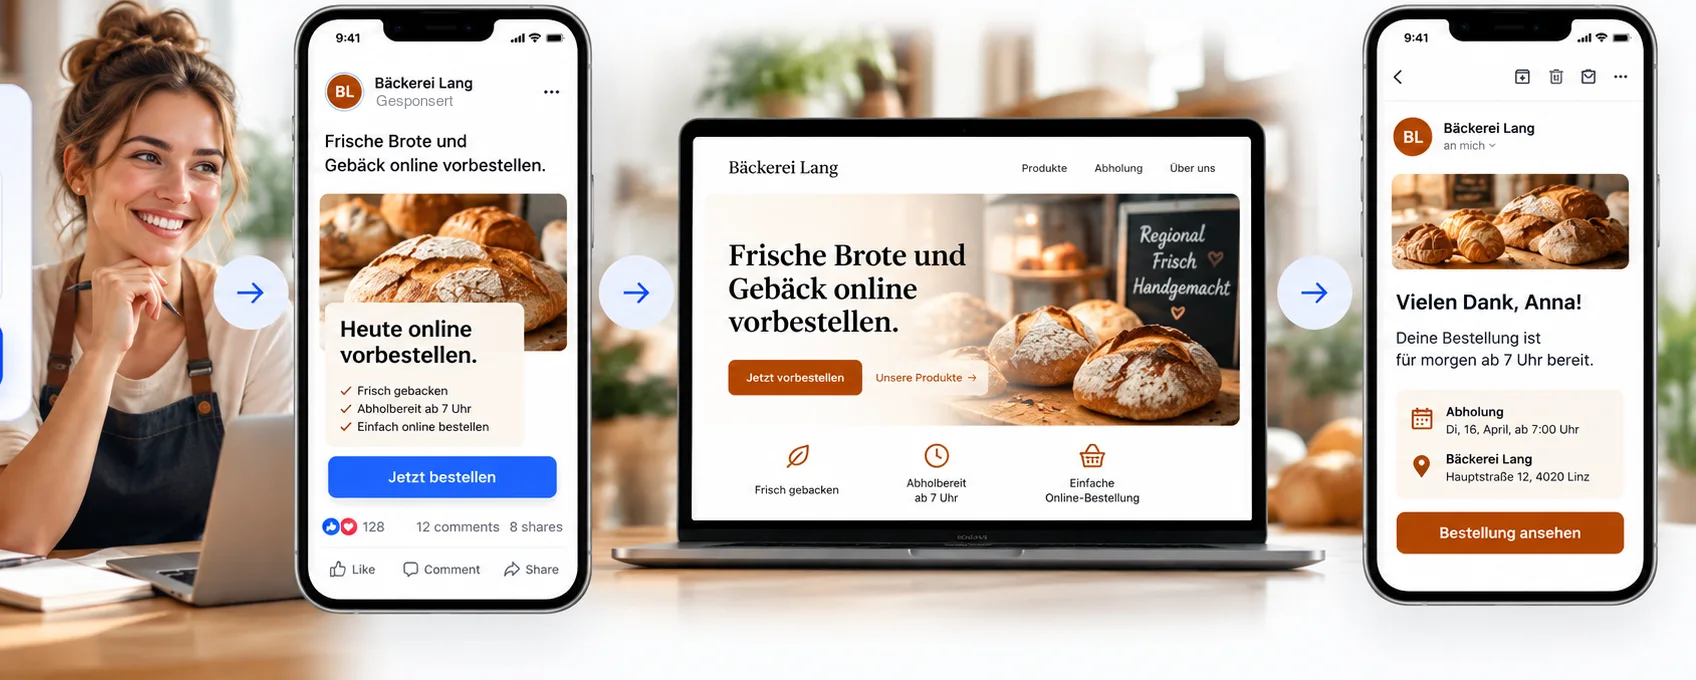
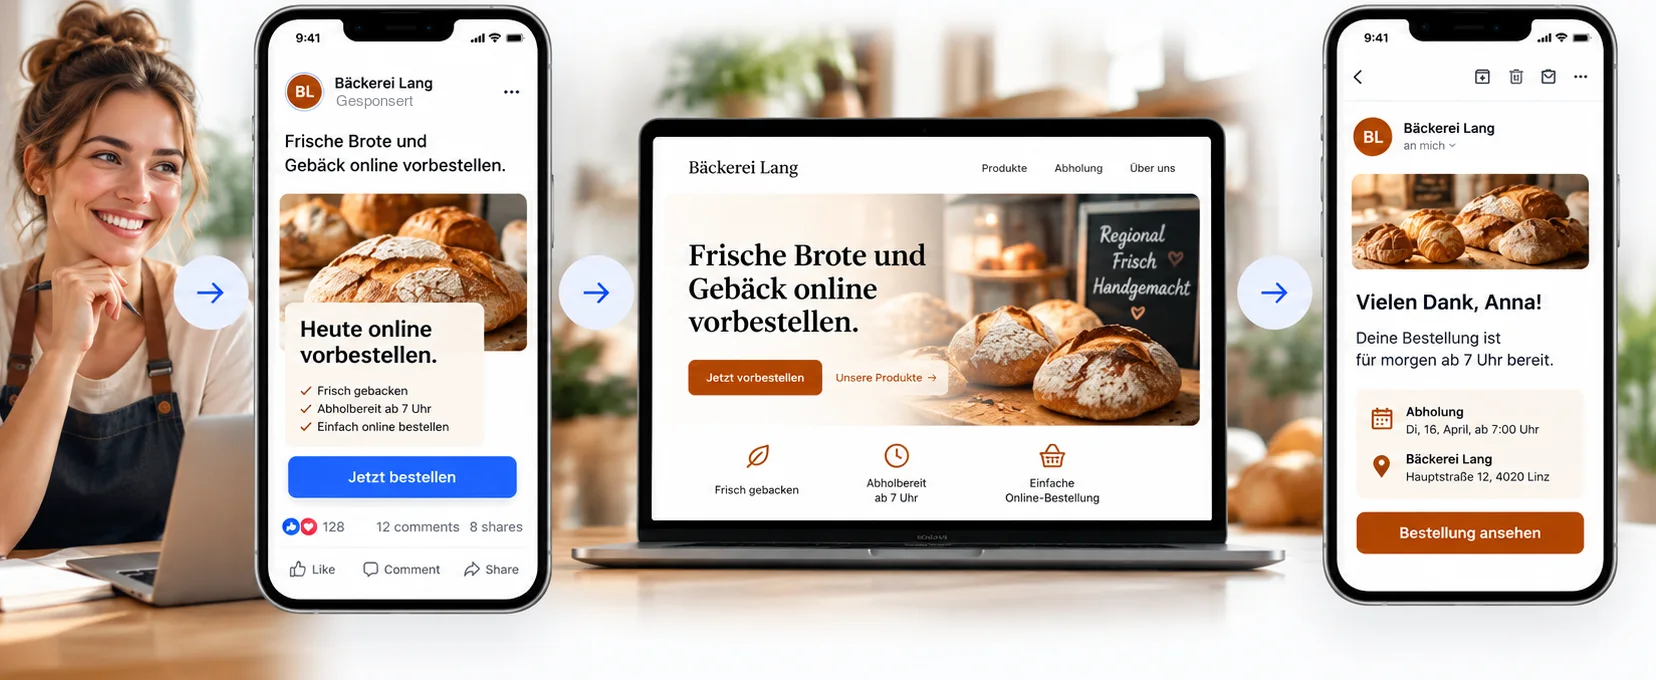
fix(web): hero is the owner's full photo edge to edge, pictures fade in
- Hero: the owner's photo was cropped to its right half and boxed. It
  now fills the whole banner uncropped; a white wash over the bright
  window side carries the copy, and the two cards float on the right.
  On a phone the photo sits under the copy.
- Campaign: the picture still showed a sliver of its own offer card on
  the left; recropped, and the left edge fades in.
- App ideas: each photo fades into the white card instead of a hard
  edge, as in the prototype.

Project: Appwerk

diff --git a/apps/web/src/app/home.css b/apps/web/src/app/home.css
@@ -33,33 +33,24 @@
 .lp .btn-ico { width: 18px; height: 18px; }
 
 /* ---------- Hero ---------- */
-/* Copy and picture share one grid inside the page width, so on a wide screen the
-   photo stays next to the text and lines up with the trust bar below. */
-.lp .hero { padding: 48px 0 32px; overflow-x: clip; }
-.lp .hero-grid { display: grid; grid-template-columns: minmax(0, 1.05fr) minmax(0, 1fr); gap: 44px; align-items: center; }
-.lp .hero-grid > * { min-width: 0; }
+/* The owner's photo is the banner itself, edge to edge. A white wash over its left side (the
+   bright windows) carries the copy; the people stay clear on the right. */
+.lp .hero { position: relative; overflow: hidden; padding: 0; min-height: clamp(560px, 41vw, 760px); display: flex; align-items: center; }
+.lp .hero-grid { position: relative; z-index: 1; display: block; width: 100%; padding-top: 56px; padding-bottom: 64px; }
+.lp .hero-copy { max-width: 560px; }
 .lp .hero-ctas { display: flex; gap: 14px; flex-wrap: wrap; }
-.lp .hero-photo { position: relative; aspect-ratio: 1480 / 802; border-radius: 24px; overflow: hidden; box-shadow: 0 30px 70px rgba(15, 23, 42, 0.16); container-type: inline-size; }
-.lp .hero-photo img { display: block; width: 100%; height: 100%; object-fit: cover; }
-/* Card text scales with the picture (container units), so it covers the printed cards at any width. */
-.lp .hero-photo .float { border-radius: 1.8cqw; }
-.lp .hero-photo .float-label { font-size: 1.25cqw; margin-bottom: 0.6cqw; }
-.lp .hero-photo .stats-row { gap: 2.2cqw; }
-.lp .hero-photo .stats-row small, .lp .hero-photo .stats-row em { font-size: 1.15cqw; }
-.lp .hero-photo .stats-row b { font-size: 2cqw; }
-.lp .hero-photo .budget-head { font-size: 1.55cqw; gap: 0.8cqw; }
-.lp .hero-photo .meta-ico { width: 2.2cqw; height: 2.2cqw; }
-.lp .hero-photo .meter { height: 0.8cqw; margin: 1.1cqw 0 0.9cqw; }
-.lp .hero-photo .budget-fig { font-size: 1.7cqw; }
-.lp .hero-photo .budget-note { font-size: 1.3cqw; }
+.lp .hero-photo { position: absolute; inset: 0; }
+.lp .hero-photo img { display: block; width: 100%; height: 100%; object-fit: cover; object-position: 70% center; }
+.lp .hero-photo::after { content: ""; position: absolute; inset: 0; background: linear-gradient(90deg, #fff 0, rgba(255, 255, 255, 0.94) 28%, rgba(255, 255, 255, 0.6) 40%, rgba(255, 255, 255, 0) 52%), linear-gradient(0deg, #fff 0, rgba(255, 255, 255, 0) 14%); pointer-events: none; }
+.lp .hero-photo .float { z-index: 1; }
 .lp .float { position: absolute; background: #fff; border-radius: 16px; box-shadow: 0 18px 44px rgba(15, 23, 42, 0.14); border: 1px solid var(--border); }
 .lp .float-label { font-size: 0.7rem; color: var(--ink-soft); margin-bottom: 6px; }
-.lp .stats { left: 4%; top: 6%; width: 37%; padding: 3% 3%; display: flex; flex-direction: column; justify-content: center; }
+.lp .stats { right: 3%; top: 9%; width: 300px; padding: 14px 16px; }
 .lp .stats-row { display: flex; gap: 18px; }
 .lp .stats-row small { display: block; font-size: 0.64rem; color: var(--ink-soft); }
 .lp .stats-row b { display: block; font-size: 1.1rem; font-weight: 800; letter-spacing: -0.02em; font-variant-numeric: tabular-nums; }
 .lp .stats-row em { font-style: normal; font-size: 0.64rem; font-weight: 700; color: var(--valid); }
-.lp .budget { left: 68%; top: 58%; width: 27%; padding: 2.4% 2.2%; }
+.lp .budget { right: 3%; bottom: 12%; width: 240px; padding: 14px 16px; }
 .lp .budget-head { display: flex; align-items: center; gap: 8px; font-weight: 700; font-size: 0.88rem; }
 .lp .meter { height: 7px; border-radius: 99px; background: #e2e8f0; margin: 10px 0 8px; overflow: hidden; }
 .lp .meter span { display: block; height: 100%; border-radius: inherit; background: linear-gradient(90deg, #16a34a, #22c55e); }
@@ -118,7 +109,7 @@
 .lp .flow-offer .btn { width: 100%; padding: 9px 10px; font-size: 0.82rem; white-space: nowrap; }
 /* The picture bleeds off the card on the right: the last phone is cut by the card edge on purpose. */
 .lp .flow-pic { position: relative; padding-top: 34px; margin: 0 -28px -24px 0; }
-.lp .flow-pic img { display: block; width: 100%; height: auto; border-radius: 14px 0 0 14px; }
+.lp .flow-pic img { display: block; width: 100%; height: auto; -webkit-mask-image: linear-gradient(90deg, transparent 0, #000 9%); mask-image: linear-gradient(90deg, transparent 0, #000 9%); }
 .lp .part-tag { position: absolute; top: 0; display: flex; align-items: center; gap: 7px; font-size: 0.92rem; font-weight: 700; white-space: nowrap; }
 .lp .part-tag span { width: 24px; height: 24px; border-radius: 50%; display: grid; place-items: center; background: var(--accent); color: #fff; font-size: 0.74rem; }
 .lp .part-tag-1 { left: 25%; transform: translateX(-50%); }
@@ -158,9 +149,9 @@
 
 /* ---------- App ideas: text left, the app in someone's hand right ---------- */
 .lp .idea-grid { display: grid; grid-template-columns: repeat(3, 1fr); gap: 18px; }
-.lp .idea { display: grid; grid-template-columns: 1fr 48%; background: #fff; border: 1px solid var(--border); border-radius: 16px; overflow: hidden; color: var(--ink); text-decoration: none; box-shadow: var(--shadow); transition: transform 0.2s ease, border-color 0.2s ease; }
+.lp .idea { position: relative; display: grid; grid-template-columns: 1fr 42%; background: #fff; border: 1px solid var(--border); border-radius: 16px; overflow: hidden; color: var(--ink); text-decoration: none; box-shadow: var(--shadow); transition: transform 0.2s ease, border-color 0.2s ease; }
 .lp a.idea:hover { transform: translateY(-3px); border-color: #c7d2fe; }
-.lp .idea-body { position: relative; padding: 16px 8px 16px 16px; display: flex; flex-direction: column; gap: 8px; min-width: 0; }
+.lp .idea-body { position: relative; z-index: 1; padding: 16px 8px 16px 16px; display: flex; flex-direction: column; gap: 8px; min-width: 0; }
 .lp .idea-head { display: flex; align-items: center; gap: 10px; font-family: var(--font-display); font-size: 1.15rem; font-weight: 700; }
 .lp .idea-ico { flex: none; width: 38px; height: 38px; border-radius: 10px; display: grid; place-items: center; background: var(--accent-soft); color: var(--accent); }
 .lp .idea-ico .ico { width: 20px; height: 20px; }
@@ -171,8 +162,9 @@
 .lp .idea-points li { display: flex; align-items: center; gap: 7px; }
 .lp .idea-points .tick { width: 16px; height: 16px; padding: 2px; }
 .lp .idea-go { position: absolute; right: 12px; bottom: 14px; }
-.lp .idea-pic { background: var(--tint); }
-.lp .idea-pic img { display: block; width: 100%; height: 100%; object-fit: cover; object-position: 30% top; }
+/* The photo runs in under the text and fades into the white card, no hard edge. */
+.lp .idea-pic { position: absolute; top: 0; right: 0; bottom: 0; width: 50%; }
+.lp .idea-pic img { display: block; width: 100%; height: 100%; object-fit: cover; object-position: 30% top; -webkit-mask-image: linear-gradient(90deg, transparent 0, rgba(0, 0, 0, 0.3) 14%, #000 36%); mask-image: linear-gradient(90deg, transparent 0, rgba(0, 0, 0, 0.3) 14%, #000 36%); }
 .lp .idea-taken { opacity: 0.85; }
 .lp .own-idea { display: grid; grid-template-columns: auto 1fr minmax(240px, 1.1fr) auto; align-items: center; gap: 18px; margin-top: 18px; padding: 16px 18px; background: #fff; border: 1px dashed #c7d2fe; border-radius: 16px; }
 .lp .own-idea-ico { width: 48px; height: 48px; border-radius: 50%; display: grid; place-items: center; background: #fff; border: 1px solid var(--border); color: var(--accent); }
@@ -228,8 +220,14 @@
   .lp .own-idea-input, .lp .own-idea .btn { grid-column: 1 / -1; }
 }
 @media (max-width: 900px) {
-  .lp .hero-grid { grid-template-columns: 1fr; gap: 28px; }
-  .lp .hero-photo { border-radius: 18px; }
+  /* On a narrow screen the copy comes first, the photo under it with its cards. */
+  .lp .hero { display: block; min-height: 0; }
+  .lp .hero-grid { padding-top: 36px; padding-bottom: 24px; }
+  .lp .hero-photo { position: relative; inset: auto; aspect-ratio: 4 / 3; }
+  .lp .hero-photo img { object-position: 78% center; }
+  .lp .hero-photo::after { background: linear-gradient(180deg, #fff 0, rgba(255, 255, 255, 0) 16%); }
+  .lp .stats { right: auto; left: 16px; top: 22px; width: auto; padding: 10px 12px; }
+  .lp .budget { right: 16px; bottom: 16px; width: 200px; padding: 10px 12px; }
   .lp .price-grid { grid-template-columns: 1fr 1fr; }
   .lp .about-grid { grid-template-columns: 1fr; }
   .lp .final-band { flex-direction: column; align-items: flex-start; }
@@ -243,7 +241,6 @@
   .lp .sec-link { margin: -1rem 0 1.4rem; }
 }
 @media (max-width: 640px) {
-  .lp .hero { padding: 36px 0 24px; }
   .lp .section { padding: 56px 0; }
   .lp .hero-ctas .btn { width: 100%; }
   .lp .trust-grid, .lp .price-grid { grid-template-columns: 1fr; }

diff --git a/apps/web/src/app/(site)/[locale]/page.tsx b/apps/web/src/app/(site)/[locale]/page.tsx
@@ -173,43 +173,43 @@ export default async function Home({
             </div>
           </div>
 
-          {/* The photo carries its own cards; ours sit exactly on top of them, so every word
-              and number on the picture comes from the dictionary in the page's language. */}
-          <div className="hero-photo" aria-hidden="true">
-            {/* eslint-disable-next-line @next/next/no-img-element -- one fixed hero picture */}
-            <img
-              src="/home/hero-people.webp"
-              alt=""
-              width={1200}
-              height={650}
-              fetchPriority="high"
-            />
-            <div className="float stats">
-              <p className="float-label">{a.period}</p>
-              <div className="stats-row">
-                <div>
-                  <small>{a.visits}</small>
-                  <b>{n(2384)}</b>
-                  <em>↑ 12%</em>
-                </div>
-                <div>
-                  <small>{a.signups}</small>
-                  <b>186</b>
-                  <em>↑ 24%</em>
-                </div>
-                <div>
-                  <small>{a.spend}</small>
-                  <b>{eur(128, locale)}</b>
-                </div>
+        </div>
+        {/* The photo fills the whole banner; the copy sits on its bright window side. The two
+            cards are page text, so they read in the page's language. */}
+        <div className="hero-photo" aria-hidden="true">
+          {/* eslint-disable-next-line @next/next/no-img-element -- one fixed hero picture */}
+          <img
+            src="/home/hero-people.webp"
+            alt=""
+            width={1960}
+            height={802}
+            fetchPriority="high"
+          />
+          <div className="float stats">
+            <p className="float-label">{a.period}</p>
+            <div className="stats-row">
+              <div>
+                <small>{a.visits}</small>
+                <b>{n(2384)}</b>
+                <em>↑ 12%</em>
+              </div>
+              <div>
+                <small>{a.signups}</small>
+                <b>186</b>
+                <em>↑ 24%</em>
+              </div>
+              <div>
+                <small>{a.spend}</small>
+                <b>{eur(128, locale)}</b>
               </div>
             </div>
-
-            <BudgetMeter
-              className="float budget"
-              of={budgetOf}
-              stop={budgetStop}
-            />
           </div>
+
+          <BudgetMeter
+            className="float budget"
+            of={budgetOf}
+            stop={budgetStop}
+          />
         </div>
       </section>
 
@@ -304,7 +304,7 @@ export default async function Home({
                     </p>
                   ))}
                   {/* eslint-disable-next-line @next/next/no-img-element -- one fixed picture */}
-                  <img src="/home/campaign-flow.webp" alt="" width={1696} height={680} loading="lazy" />
+                  <img src="/home/campaign-flow.webp" alt="" width={1656} height={680} loading="lazy" />
                 </div>
               </div>
             </div>
